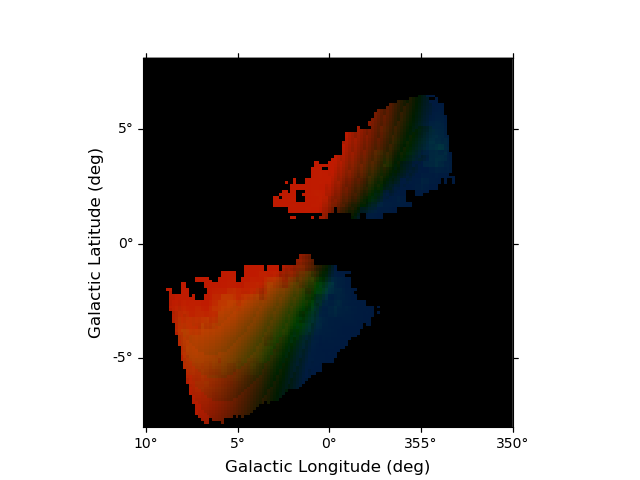
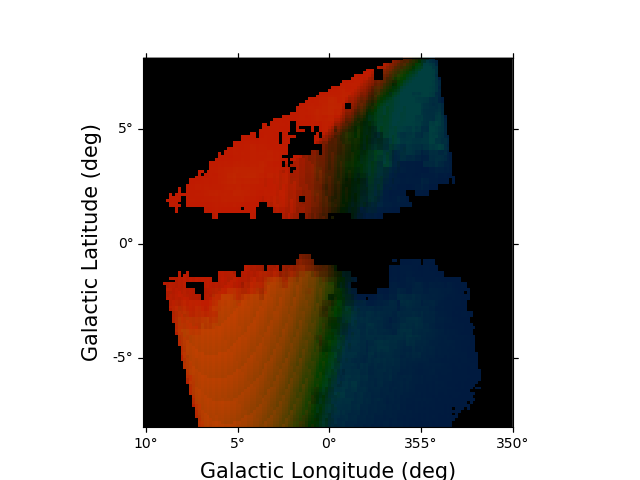
Add documenation
improve documentation
improve coverage

diff --git a/modspectra/cube.py b/modspectra/cube.py
@@ -990,7 +990,7 @@ class EmissionCube(EmissionCubeMixin, SpectralCube):
                  bd_max = None, Hz = None, z_sigma_lim = None, dens0 = None,
                  velocity_factor = None, vel_0 = None, el_constant1 = None, el_constant2 = None, 
                  vel_disp = None, vmin = None, vmax = None, visualize = False, redden = None,
-                 flaring = False, flaring_radial = False, min_bd = None,
+                 flaring = None, flaring_radial = None, min_bd = None,
                  species = None, T_gas = None, LSR_options = {}, galcen_options = {}, return_all = False, 
                  LB82 = False, defaults = False, create = False, memmap = False, da_chunks_xyz = None,
                  LBD_output_in = None, LBD_output_keys_in = None, model_header = None, 
@@ -1019,6 +1019,8 @@ class EmissionCube(EmissionCubeMixin, SpectralCube):
             beta = 20. * u.deg
             theta = 48.5 * u.deg
             species = 'hi'
+            flaring = False
+            flaring_radial = False
 
         if DK19:
             galcen_distance_factor = 8.127 / 10.
@@ -1054,6 +1056,10 @@ class EmissionCube(EmissionCubeMixin, SpectralCube):
                 redden = True
             if not case:
                 case = 'B'
+            if flaring == None:
+                flaring = 2.05
+            if flaring_radial == None:
+                flaring_radial = True
 
 
 

diff --git a/docs/plotting_moments.rst b/docs/plotting_moments.rst
@@ -12,13 +12,13 @@ integrated intensity.
 
 We start with computing the H-Alpha Emission Data Cube::
 
-    # Import EmissionCube
-    from modspectra.cube import EmissionCube
+    >>> # Import EmissionCube
+    >>> from modspectra.cube import EmissionCube
 
-    # Use default parameters 
-    ha_cube = EmissionCube.create_DK19()
+    >>> # Use default parameters 
+    >>> ha_cube = EmissionCube.create_DK19()
 
-    ha_cube
+    >>> ha_cube
     EmissionCube with shape=(550, 128, 128) and unit=R s / km:
      n_x:    128  type_x: GLON-CAR  unit_x: deg    range:     0.000000 deg:  359.842520 deg
      n_y:    128  type_y: GLAT-CAR  unit_y: deg    range:    -7.937008 deg:    8.062992 deg
@@ -26,78 +26,78 @@ We start with computing the H-Alpha Emission Data Cube::
 
 Moments can be computed using `spectral-cube.SpectralCube.moment()`::
 
-    import astropy.units as u
-    # Integrated H-Alpha surface brightness in Rayleighs
-    integrated_ha = ha_cube.moment(order = 0).to(u.R)
+    >>> import astropy.units as u
+    >>> # Integrated H-Alpha surface brightness in Rayleighs
+    >>> integrated_ha = ha_cube.moment(order = 0).to(u.R)
 
-    # Intensity weigted mean velocity in km/s
-    velocity_ha = ha_cube.moment(order = 1).to(u.km/u.s)
+    >>> # Intensity weigted mean velocity in km/s
+    >>> velocity_ha = ha_cube.moment(order = 1).to(u.km/u.s)
 
 We can construct our image array using this information and rescaling as we see fit::
 
-    import numpy as np
+    >>> import numpy as np
 
-    # Create RGB image array
-    image = np.zeros((integrated_ha.shape[0], integrated_ha.shape[1] ,3))
+    >>> # Create RGB image array
+    >>> image = np.zeros((integrated_ha.shape[0], integrated_ha.shape[1] ,3))
 
-    # Set Velocity Scaling:
-    v_neg_max = -100. * u.km/u.s
-    v_pos_max = 100. * u.km/u.s
+    >>> # Set Velocity Scaling:
+    >>> v_neg_max = -100. * u.km/u.s
+    >>> v_pos_max = 100. * u.km/u.s
 
-    velocity_ha[velocity_ha > v_pos_max] = v_pos_max
-    velocity_ha[velocity_ha < v_neg_max] = v_neg_max
+    >>> velocity_ha[velocity_ha > v_pos_max] = v_pos_max
+    >>> velocity_ha[velocity_ha < v_neg_max] = v_neg_max
 
-    # min/max values for colors
-    min_col = 0.25
-    max_col = 0.75
+    >>> # min/max values for colors
+    >>> min_col = 0.25
+    >>> max_col = 0.75
 
-    # Define Scaling Function
-    def rescale(low, high, data):
-        return low + (high - low) * (data) / (np.nanmax(data))
+    >>> # Define Scaling Function
+    >>> def rescale(low, high, data):
+    >>>     return low + (high - low) * (data) / (np.nanmax(data))
 
-    # Set scaled color intensities for velocity
-    scaled_velocity = rescale(min_col, max_col, velocity_ha.value)
+    >>> # Set scaled color intensities for velocity
+    >>> scaled_velocity = rescale(min_col, max_col, velocity_ha.value)
 
 
-    # Set Integrated Surface Brightness Range
-    int_min = 0.1 * u.R
-    int_max = 5. * u.R
+    >>> # Set Integrated Surface Brightness Range
+    >>> int_min = 0.1 * u.R
+    >>> int_max = 5. * u.R
 
-    integrated_ha[integrated_ha < int_min] = 0.
-    integrated_ha[integrated_ha > int_max] = int_max
+    >>> integrated_ha[integrated_ha < int_min] = 0.
+    >>> integrated_ha[integrated_ha > int_max] = int_max
 
-    # Define Scaling Function
-    def rescale_ha(low, high, data):
-        return low + (high - low) * (data - np.nanmin(data)) / (np.nanmax(data) - np.nanmin(data))
+    >>> # Define Scaling Function
+    >>> def rescale_ha(low, high, data):
+    >>>     return low + (high - low) * (data - np.nanmin(data)) / (np.nanmax(data) - np.nanmin(data))
 
-    # Set scaled color intensities for Surface Brightness
-    scaled_ha = rescale_ha(0.1, 0.25, integrated_ha.value)
+    >>> # Set scaled color intensities for Surface Brightness
+    >>> scaled_ha = rescale_ha(0.1, 0.25, integrated_ha.value)
 
-    # only color places with detectable integrated surface brightness
-    scaled_ha[integrated_ha < int_min] = 0.
-    scaled_velocity[integrated_ha < int_min] = 0.
+    >>> # only color places with detectable integrated surface brightness
+    >>> scaled_ha[integrated_ha < int_min] = 0.
+    >>> scaled_velocity[integrated_ha < int_min] = 0.
 
-    # Set G channel
-    image[:,:,1] = scaled_ha
+    >>> # Set G channel
+    >>> image[:,:,1] = scaled_ha
 
-    # Set R and B channels
-    image[:,:,0] = scaled_velocity
-    image[:,:,2] = -1. * scaled_velocity
-    # Remove negative values
-    image[image<0.] = 0.
+    >>> # Set R and B channels
+    >>> image[:,:,0] = scaled_velocity
+    >>> image[:,:,2] = -1. * scaled_velocity
+    >>> # Remove negative values
+    >>> image[image<0.] = 0.
 
 Use `astropy` and `matplotlib` with WCS axes to plot::
 
-    import matplotlib.pyplot as plt
+    >>> import matplotlib.pyplot as plt
 
-    fig = plt.figure()
-    ax = fig.add_subplot(111, projection = integrated_ha.wcs)
+    >>> fig = plt.figure()
+    >>> ax = fig.add_subplot(111, projection = integrated_ha.wcs)
 
-    im = ax.imshow(image)
+    >>> im = ax.imshow(image)
 
-    ax.invert_xaxis()
-    ax.set_xlabel("Galactic Longitude (deg)", fontsize = 15)
-    ax.set_ylabel("Galactic Latitude (deg)", fontsize = 15)
+    >>> ax.invert_xaxis()
+    >>> ax.set_xlabel("Galactic Longitude (deg)", fontsize = 15)
+    >>> ax.set_ylabel("Galactic Latitude (deg)", fontsize = 15)
 
 .. image:: images/DK19_3Color_image.png
    :width: 600

diff --git a/docs/custom_ppv_cubes.rst b/docs/custom_ppv_cubes.rst
@@ -170,7 +170,7 @@ rest of the spectral-cube pacakge tools and custom methods from this package::
     >>> ax = fig.add_subplot(projection = cube_moment_map.wcs)
 
     >>> im = ax.imshow(cube_moment_map.data, vmin = -300, vmax = 300, cmap = 'RdBu_r')
-    >>> plt.colorbar(im)
+    >>> plt.colorbar(im, label = "Velocity (km/s)")
 
 .. image:: images/test_ring.png
    :width: 600
